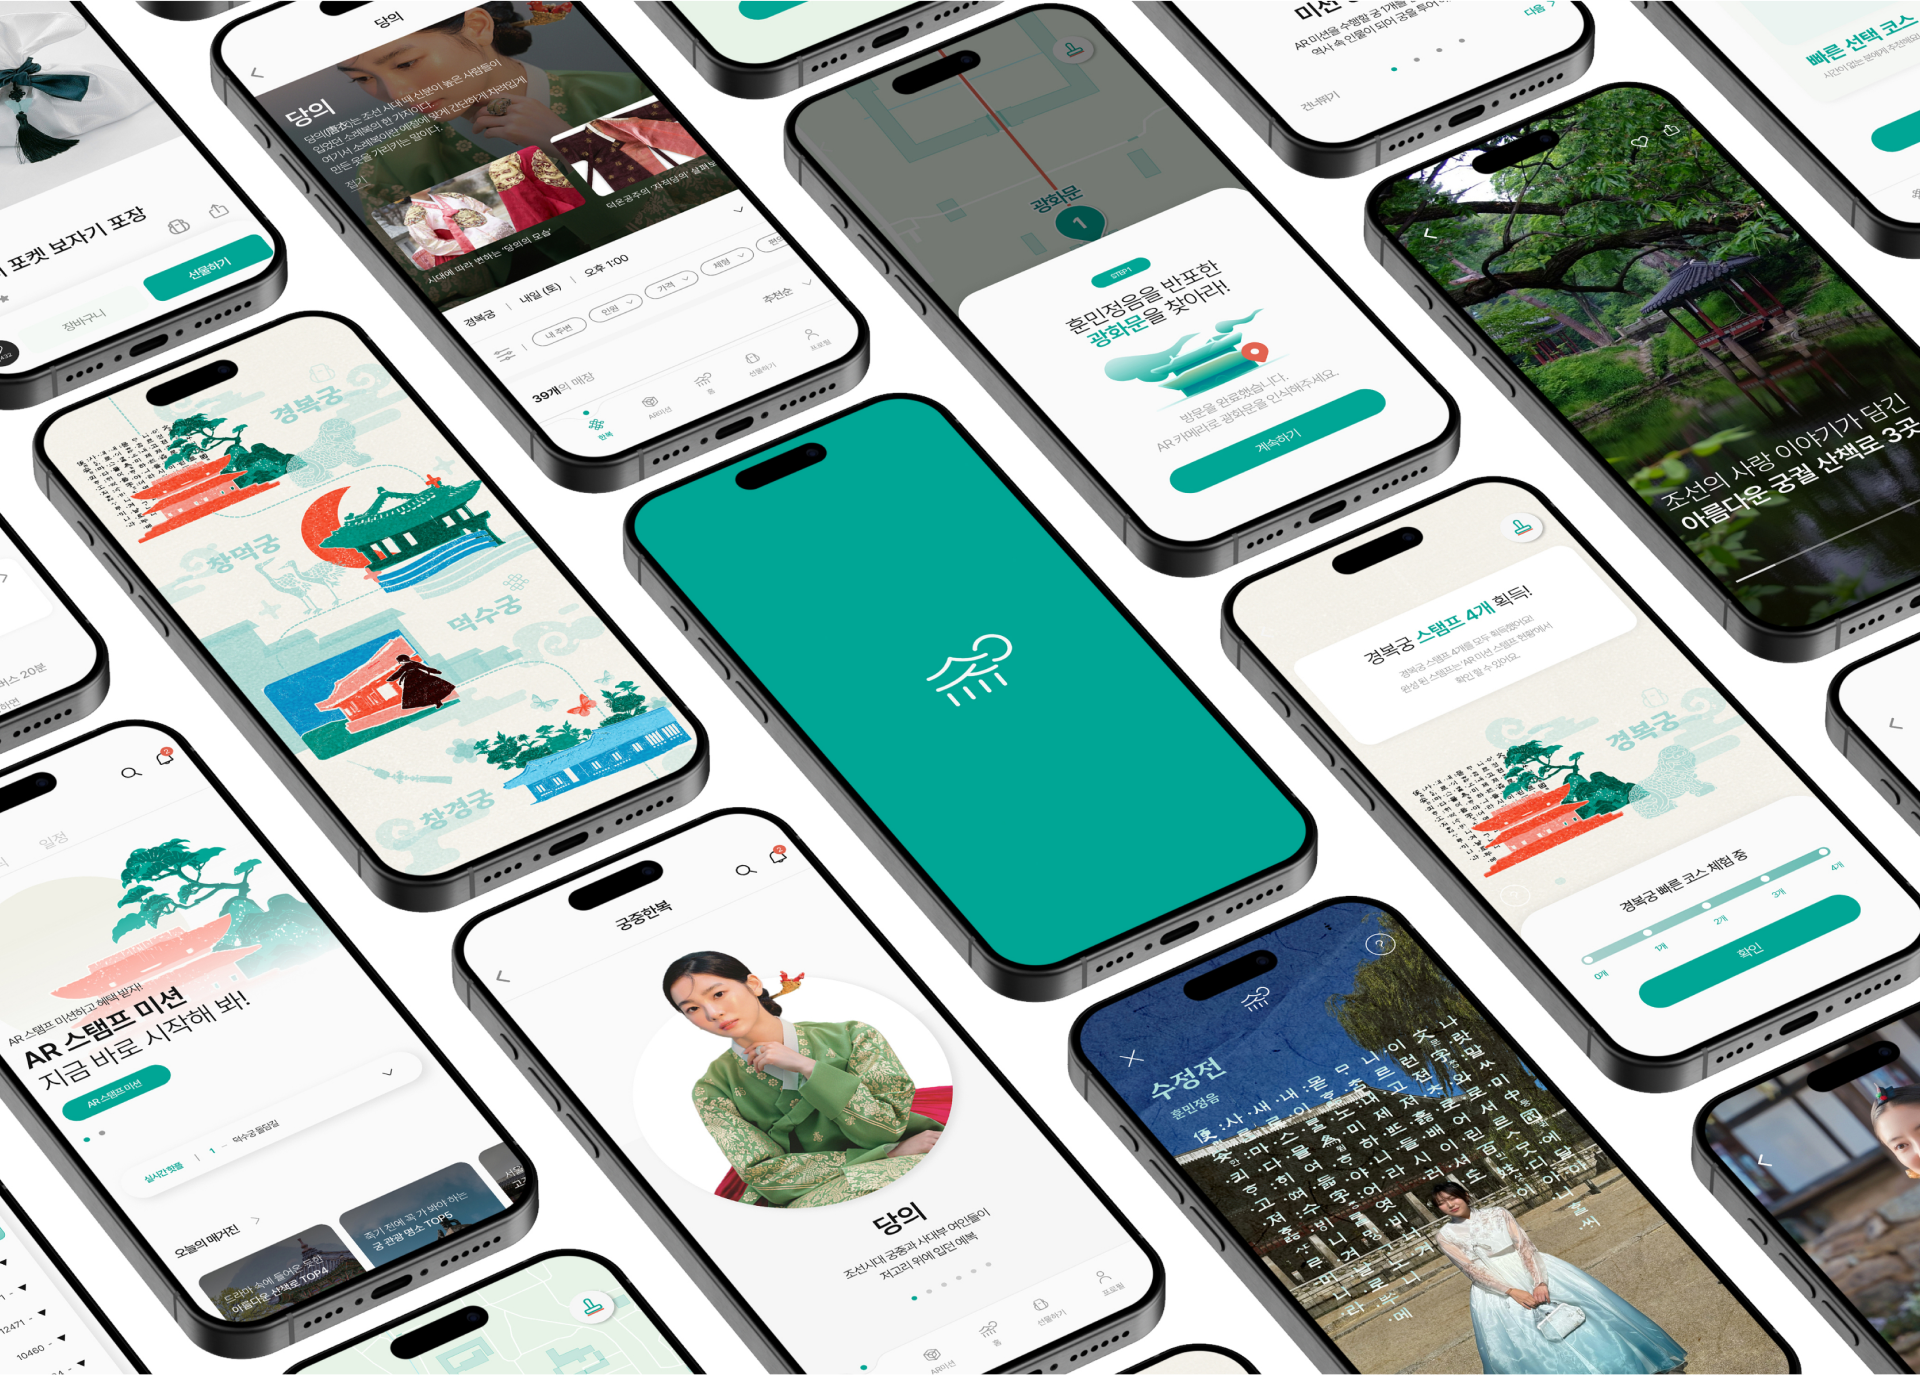
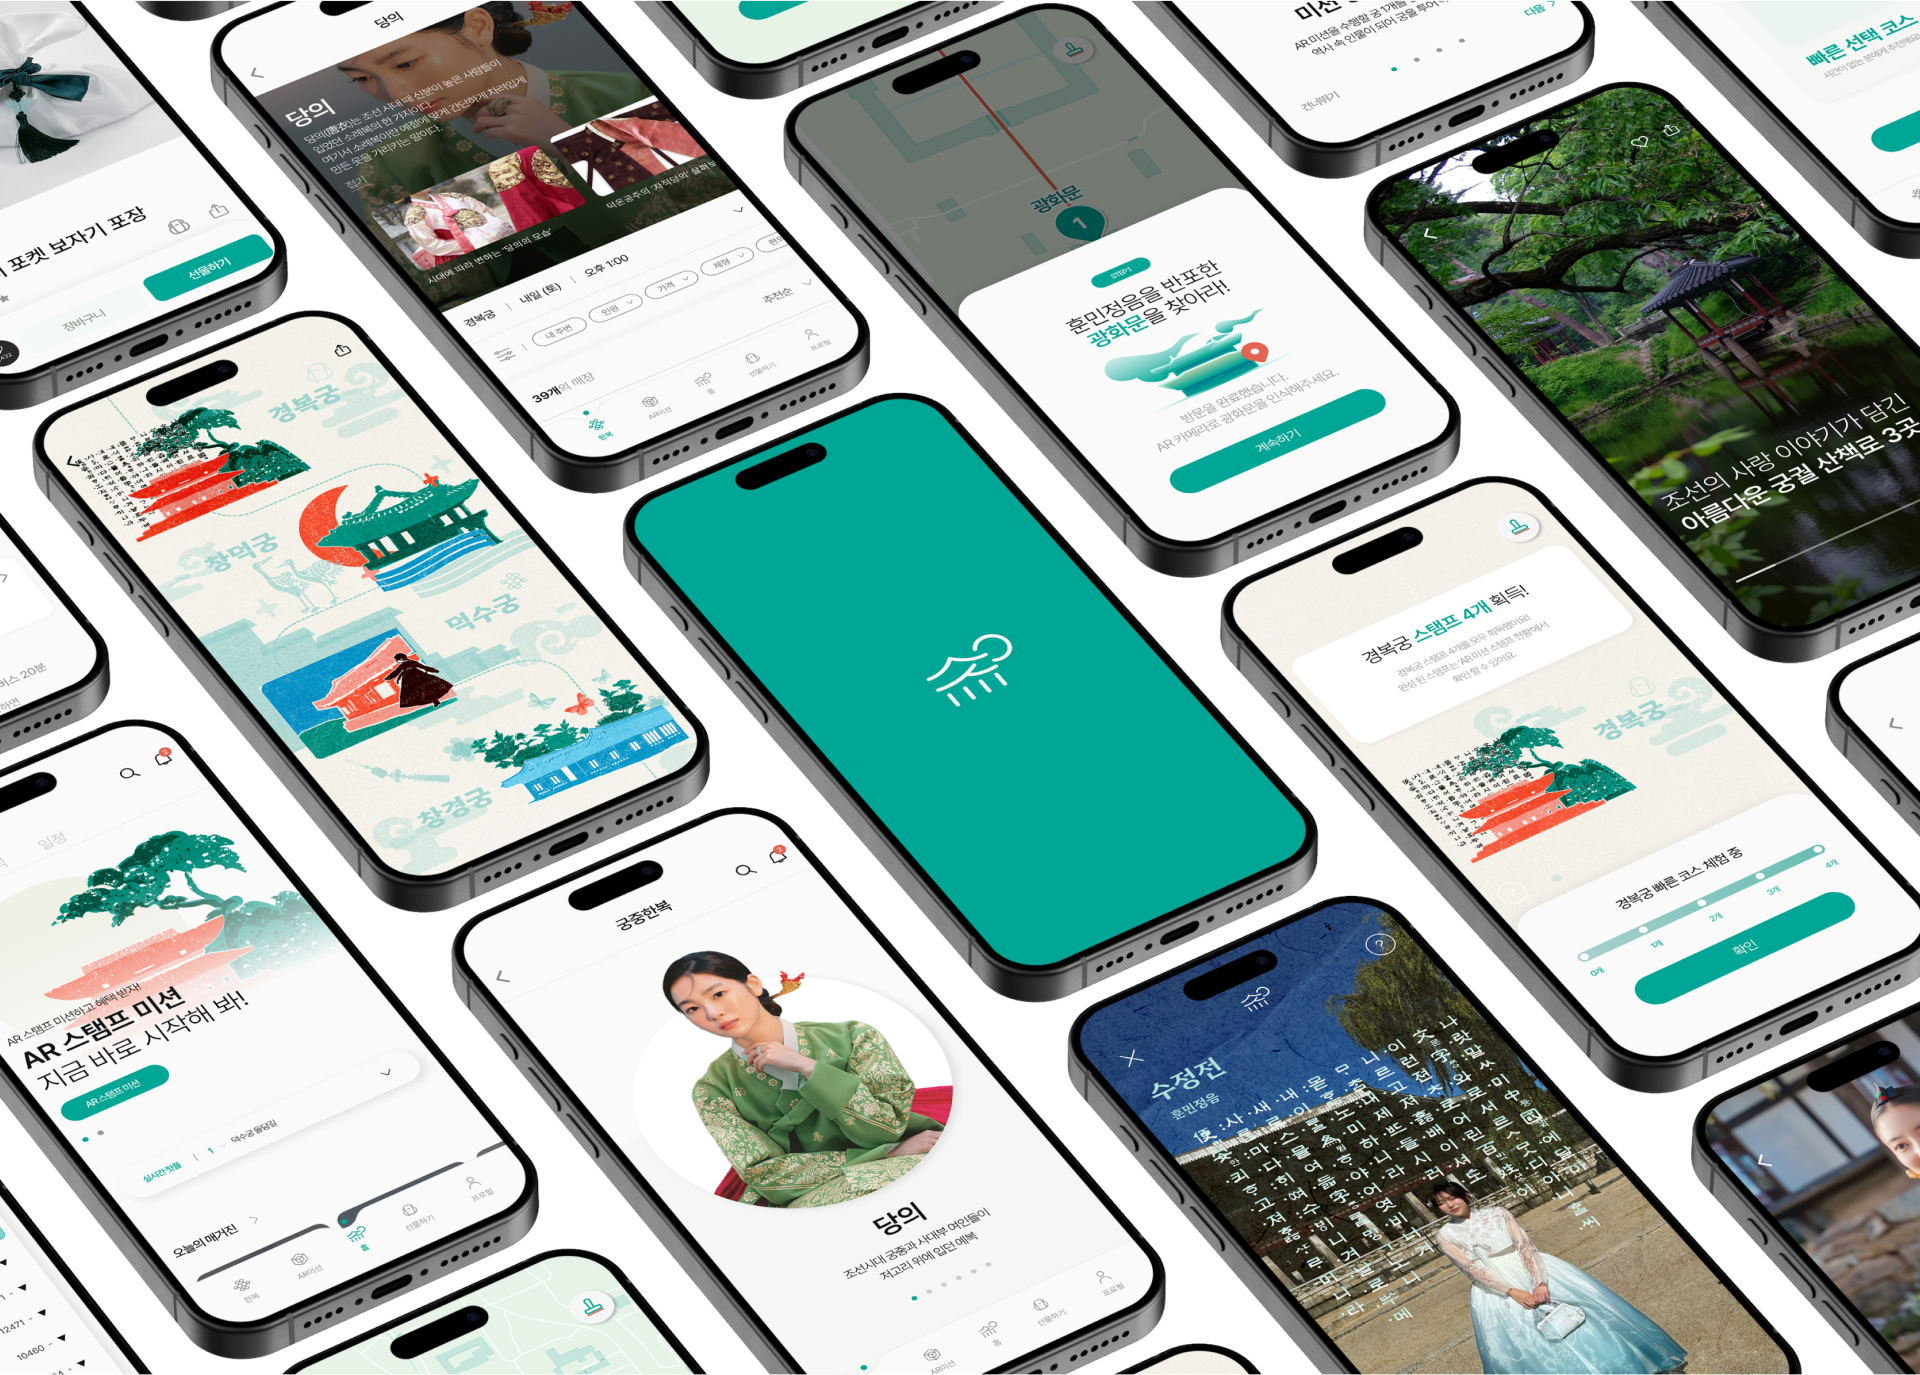
목업 이미지 변경, 이미지 프로토타입 순서 변경 및 추가, 스탬프 페이지 연결

diff --git a/index.html b/index.html
@@ -1704,7 +1704,7 @@
             <section id="sec-19">
                 <h3 class="sec-19__title">‘오라, 궁’의 AR 스탬프로<br>
                     <span class="sec-19__title-highlight">나만의 스탬프 꾸미기</span>를 해 보세요!</h3>
-                    <a href="#" target="_blank" class="sec-19__btn">스탬프 꾸미러 가기</a>
+                    <a href="./stamp.html" target="_blank" class="sec-19__btn">스탬프 꾸미러 가기</a>
             </section>
 
             <section id="sec-20">

diff --git a/assets/scripts/script-rhs.js b/assets/scripts/script-rhs.js
@@ -463,6 +463,7 @@ document.addEventListener("DOMContentLoaded", function() {
 // 첫 번째 슬라이드쇼 인스턴스
 const slideshow1 = new ImageSlideshow({
     images: [
+        './assets/images/mockup/hanbok-a.webp',
         './assets/images/mockup/hanbok-1.webp',
         './assets/images/mockup/hanbok-2.webp',
         './assets/images/mockup/hanbok-3.webp'
